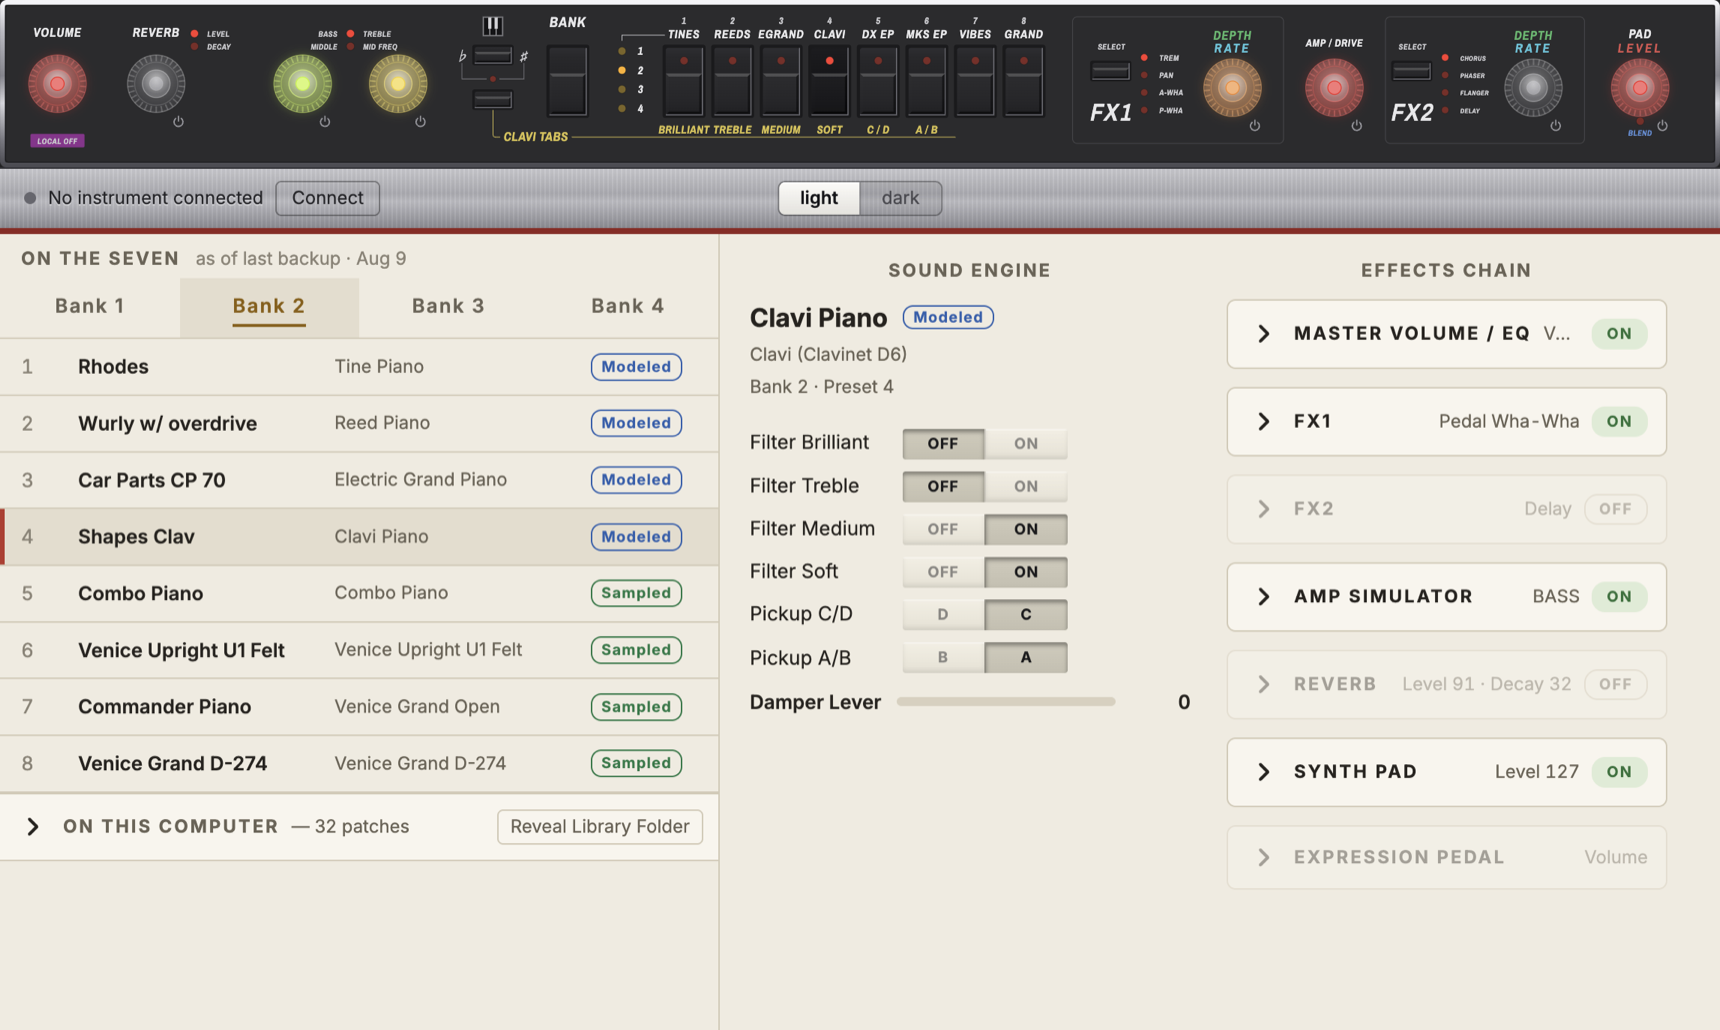
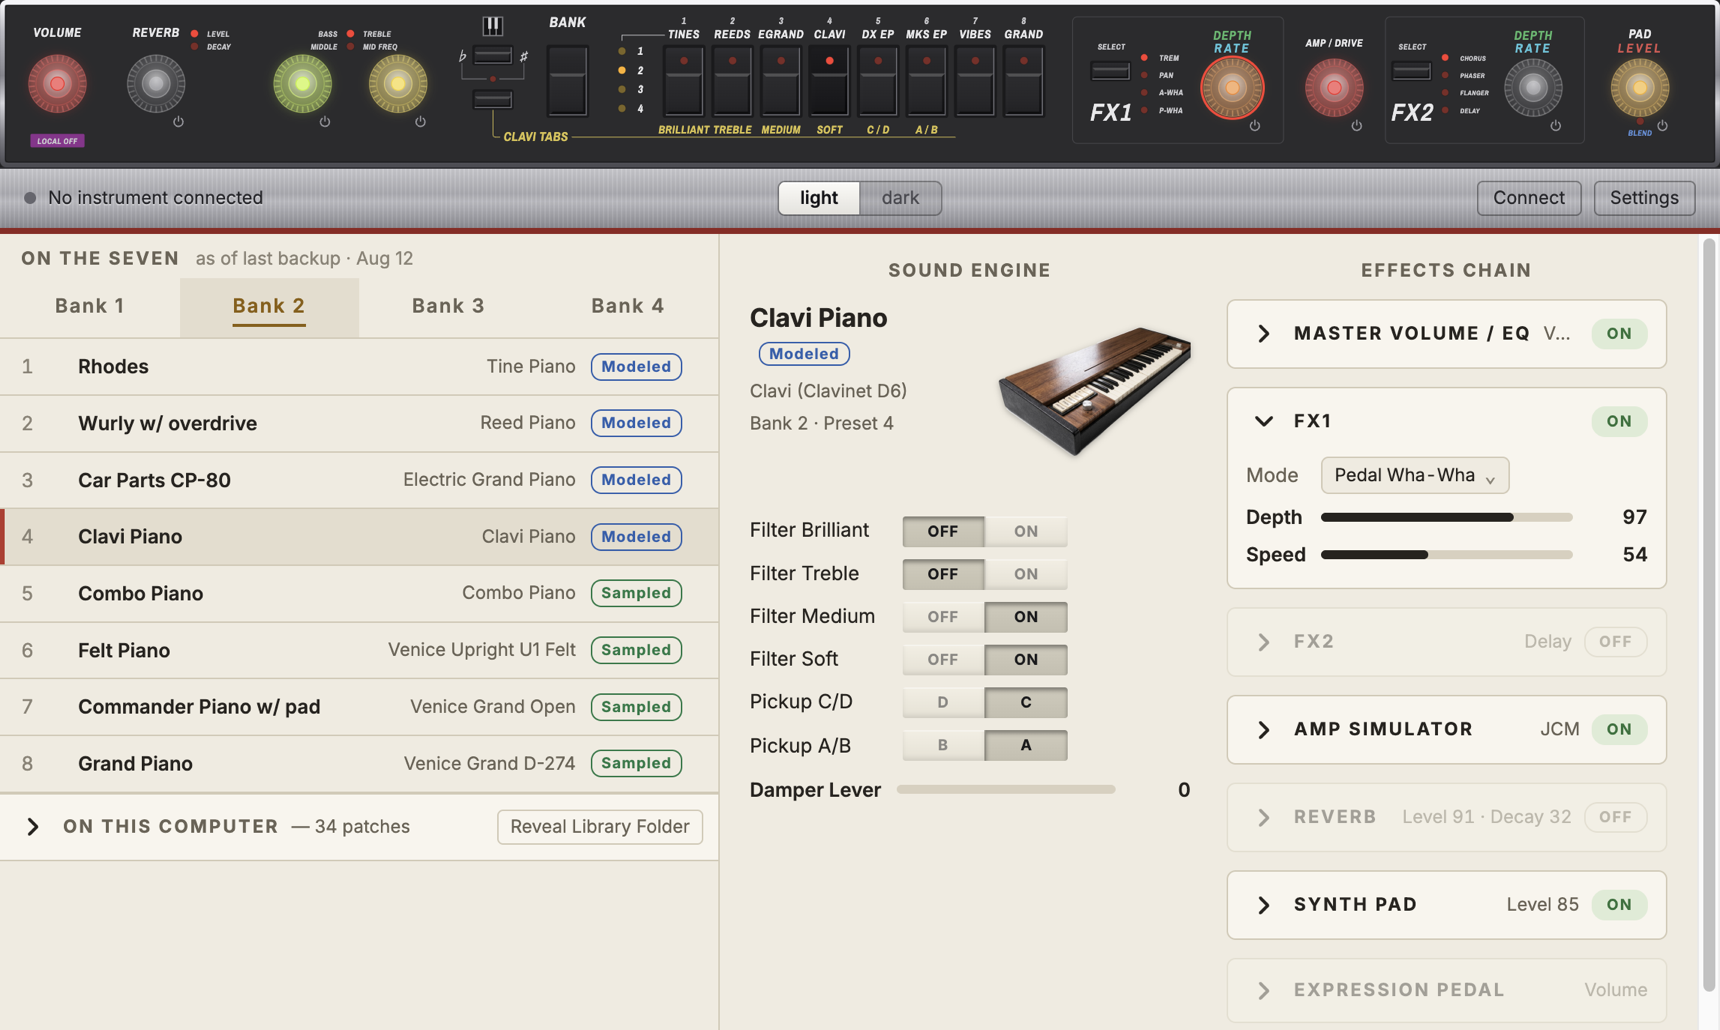
Screenshots become a strip of three, showing the carousel
Five screenshots stacked two-up ran the page down several screens before
the writing resumed. Across, they read as a filmstrip you open: 93px of
page height instead of a wall to scroll past. The existing lightbox
already handled click-to-enlarge and paging, so this is layout only.

New shots: the instrument carousel open in both themes, one of them also
showing the restricted-range keyboard, plus a Clavi patch with its
filter tabs, pickup switches and FX1 open on Pedal Wha-Wha.

Dropped the library and setlist shots — no longer accurate. Both
features are still named in the features list, so the page now describes
them without showing them; they want fresh shots.

No captions. Under a thumbnail this narrow they were two lines of
unreadable type and put the page height back where it started. The
enlarged view keeps its position counter, which is the one thing a
reader cannot work out from the picture.

One bug found while checking the narrow layout: the visually-hidden
captions were position:absolute with no positioned ancestor, so they
escaped the scrolling strip and stretched the document — the whole page
would have scrolled sideways on a phone. Moot now the captions are gone,
but .shot keeps its positioning context.

diff --git a/docs/assets/css/style.css b/docs/assets/css/style.css
@@ -219,16 +219,30 @@ main li { margin: .3rem 0; }
 
 /* Screenshot with click-to-enlarge. The button wrapper keeps it keyboard
    reachable; the dialog is native, so Escape and backdrop clicks come free. */
-/* Gallery: one column on a phone, two side by side with room. */
-.shots { display: grid; gap: 1rem; margin: 2rem 0; }
-@media (min-width: 40rem) { .shots { grid-template-columns: 1fr 1fr; } }
-.shot { margin: 0; }
+/* Gallery: a STRIP, not a grid. Stacked two up, five screenshots ran the page
+   down several screens before the writing resumed. Across, they read as a
+   filmstrip you open rather than a wall you scroll past. */
+.shots {
+  display: flex; gap: .5rem; margin: 2rem 0;
+  overflow-x: auto; scroll-snap-type: x mandatory;
+  -webkit-overflow-scrolling: touch;
+  scrollbar-width: thin;
+}
+.shot { position: relative; margin: 0; flex: 1 1 0; min-width: 0; scroll-snap-align: start; }
+/* Too narrow to show five at any useful size, so show one and a bit — the
+   part-visible neighbour is what says the strip keeps going. */
+@media (max-width: 44rem) { .shot { flex: 0 0 76%; } }
 .shot-open {
   display: block; width: 100%; padding: 0; border: 1px solid var(--line);
-  border-radius: 8px; overflow: hidden; background: none; cursor: zoom-in;
+  border-radius: 6px; overflow: hidden; background: none; cursor: zoom-in;
+  transition: border-color .15s ease, transform .15s ease;
 }
+.shot-open:hover, .shot-open:focus-visible { border-color: var(--muted); transform: translateY(-2px); }
 .shot-open img { display: block; width: 100%; height: auto; }
-.shot figcaption { color: var(--muted); font-size: .9rem; margin-top: .5rem; }
+@media (prefers-reduced-motion: reduce) {
+  .shot-open { transition: none; }
+  .shot-open:hover, .shot-open:focus-visible { transform: none; }
+}
 dialog.shot-modal {
   width: min(96vw, 1600px); padding: 0; border: none; border-radius: 8px;
   background: none; position: relative; overflow: visible;

diff --git a/docs/assets/js/shot.js b/docs/assets/js/shot.js
@@ -5,10 +5,13 @@
   const openers = [...document.querySelectorAll('.shot-open')];
   if (!openers.length) return;
 
+  // No captions under the thumbnails — the screenshots are the point and a
+  // line of type under each put the page height back where it started
+  // (Daniel, 2026-08-12). The enlarged view keeps its position counter, which
+  // is the one thing a reader cannot work out from the picture.
   const shots = openers.map((o) => {
     const img = o.querySelector('img');
-    const cap = o.closest('.shot')?.querySelector('figcaption');
-    return { src: img.src, alt: img.alt, caption: cap ? cap.textContent : '' };
+    return { src: img.src, alt: img.alt };
   });
   let index = 0;
 
@@ -27,9 +30,7 @@
     index = (i + shots.length) % shots.length;   // wraps both ways
     img.src = shots[index].src;
     img.alt = shots[index].alt;
-    caption.textContent = shots.length > 1
-      ? `${shots[index].caption} — ${index + 1} of ${shots.length}`
-      : shots[index].caption;
+    caption.textContent = shots.length > 1 ? `${index + 1} of ${shots.length}` : '';
   };
 
   openers.forEach((o, i) => o.addEventListener('click', () => { show(i); dialog.showModal(); }));

diff --git a/docs/index.md b/docs/index.md
@@ -26,31 +26,21 @@ organizes them into setlists you can take on the road.
 <div class="shots">
   <figure class="shot">
     <button type="button" class="shot-open" aria-label="Enlarge screenshot">
-      <img src="{{ '/assets/img/app.png' | relative_url }}" width="1147" height="687" loading="lazy"
-           alt="Dark theme: bank 1 as captured by the last backup, a patch's sound engine parameters, and the effects chain with FX1 open.">
+      <img src="{{ '/assets/img/app-carousel-dark.png' | relative_url }}" width="1147" height="687" loading="lazy"
+           alt="Dark theme: a sampled Venice Grand on bank 2, with the instrument carousel open and a piano either side, ready to page to another sound.">
     </button>
-    <figcaption>Bank 1, with FX1 open</figcaption>
+  </figure>
+  <figure class="shot">
+    <button type="button" class="shot-open" aria-label="Enlarge screenshot">
+      <img src="{{ '/assets/img/app-carousel-light.png' | relative_url }}" width="1147" height="687" loading="lazy"
+           alt="Light theme: the modeled Reed Piano on bank 2, the instrument carousel open, and a keyboard strip showing which keys this sound does not answer to.">
+    </button>
   </figure>
   <figure class="shot">
     <button type="button" class="shot-open" aria-label="Enlarge screenshot">
       <img src="{{ '/assets/img/app-clavi.png' | relative_url }}" width="1147" height="687" loading="lazy"
-           alt="Light theme: bank 2 with renamed patches, a Clavi patch showing its filter tabs and pickup switches.">
+           alt="Light theme: a Clavi patch showing its filter tabs and pickup switches, with FX1 open on Pedal Wha-Wha.">
     </button>
-    <figcaption>Light theme, Clavi tabs and pickups</figcaption>
-  </figure>
-  <figure class="shot">
-    <button type="button" class="shot-open" aria-label="Enlarge screenshot">
-      <img src="{{ '/assets/img/app-library.png' | relative_url }}" width="1147" height="687" loading="lazy"
-           alt="The patch library open on this computer, with a sampled Venice Upright patch showing its sample-player parameters and expression pedal range.">
-    </button>
-    <figcaption>The library, and a sampled patch</figcaption>
-  </figure>
-  <figure class="shot">
-    <button type="button" class="shot-open" aria-label="Enlarge screenshot">
-      <img src="{{ '/assets/img/app-setlist.png' | relative_url }}" width="1147" height="687" loading="lazy"
-           alt="A setlist's eight slots, with one patch being renamed in place.">
-    </button>
-    <figcaption>A setlist, renaming a slot</figcaption>
   </figure>
 </div>
 
